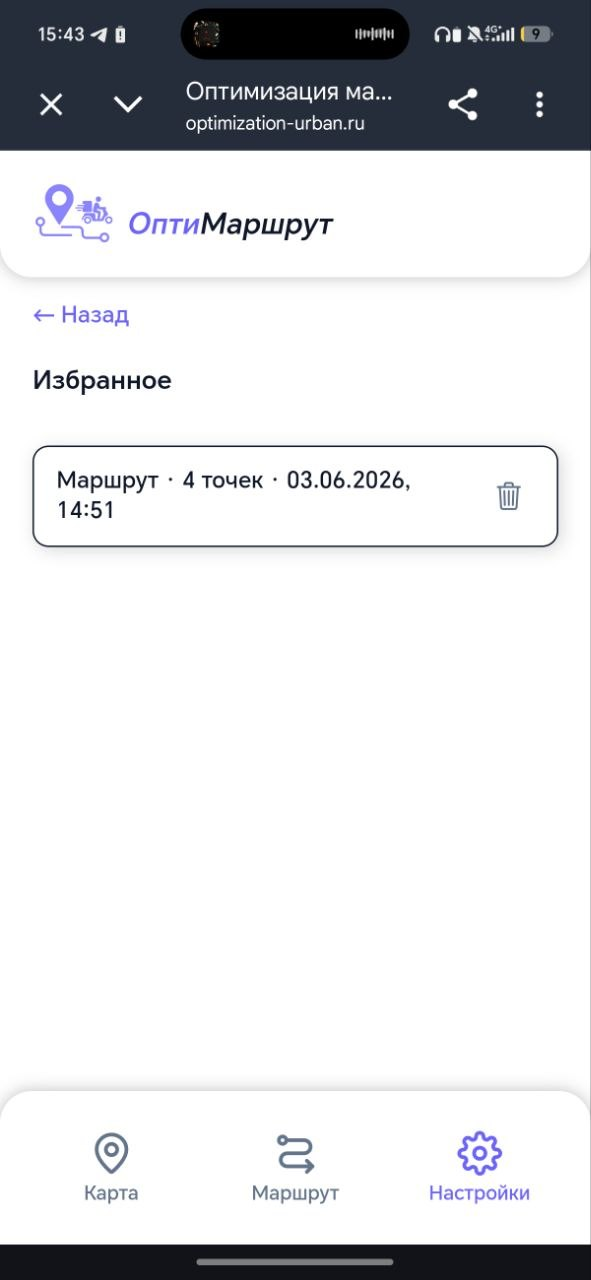
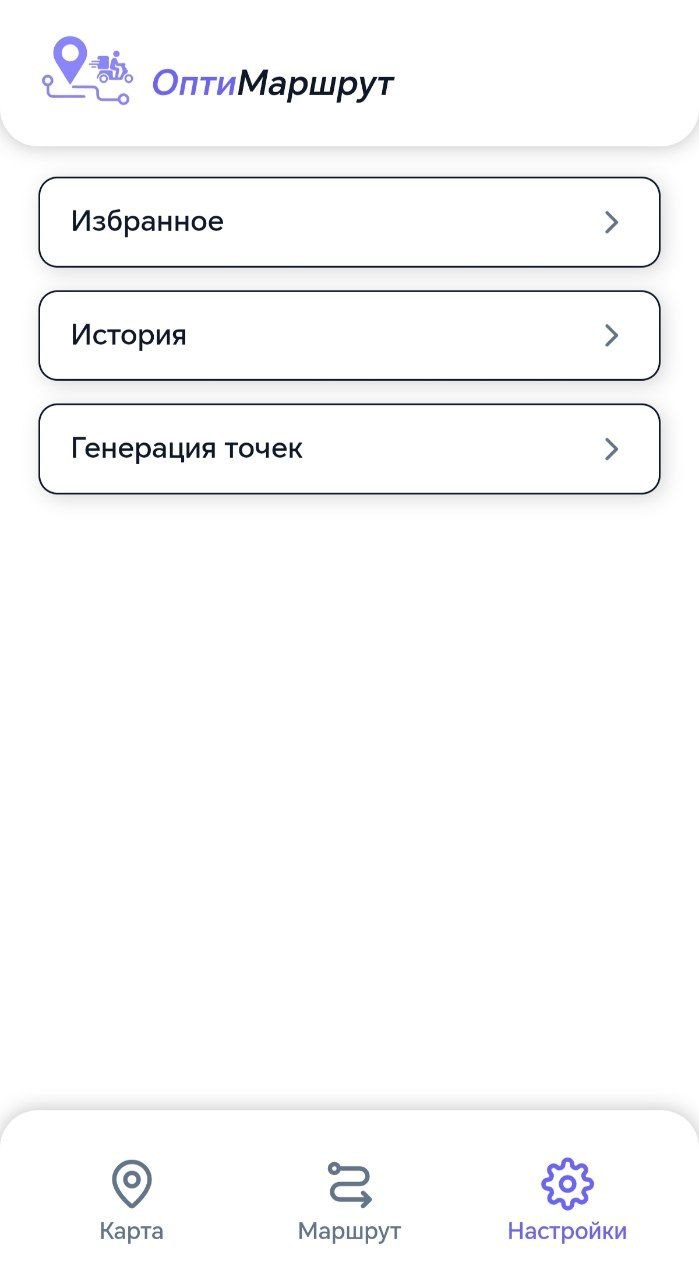
screenshots fix

diff --git a/README.md b/README.md
@@ -11,7 +11,7 @@
 ---
 
 ## 📸 Интерфейс
-| **Главный экран** | **Построение маршрута** | **История заказов** |
+| **Главный экран** | **Построение маршрута** | **Настройки** |
 | :--- | :--- | :--- |
 | ![Main](screenshots/mainScreen.jpg) | ![Route](screenshots/RouteScreen.jpg) | ![Settings](screenshots/SettingsScreen.jpg) |
 | **History**  | **Favorite** | **Generation** |
